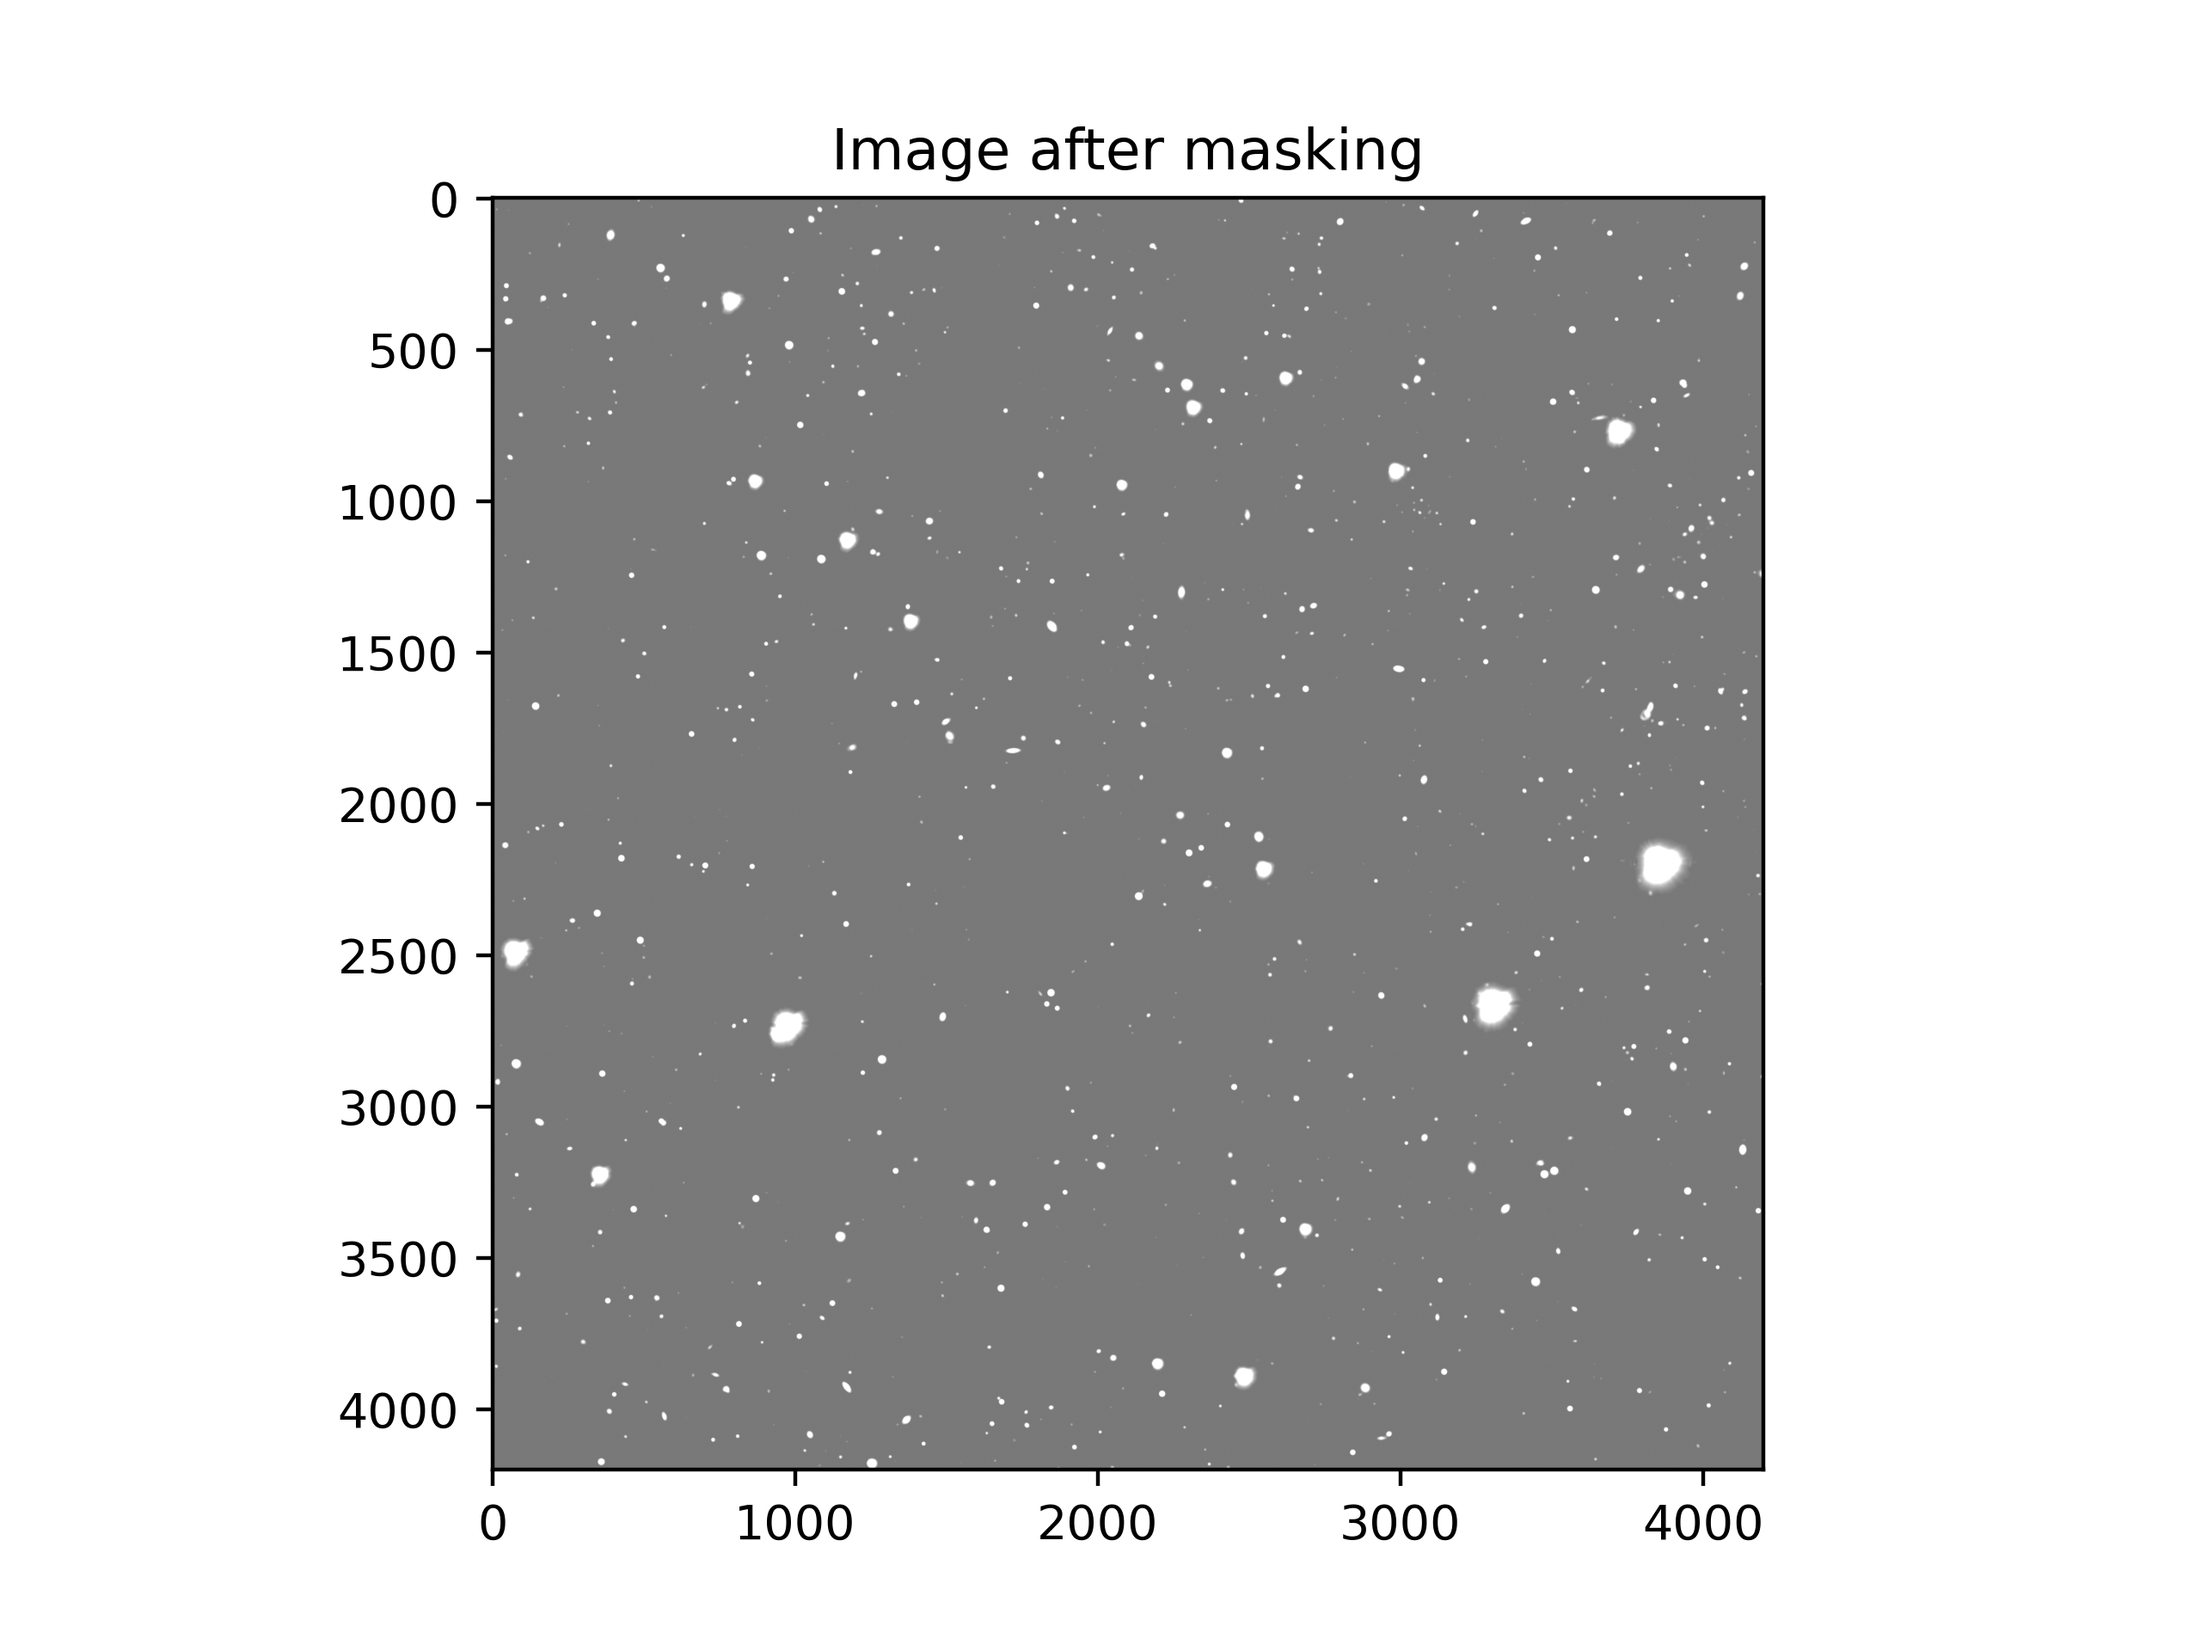
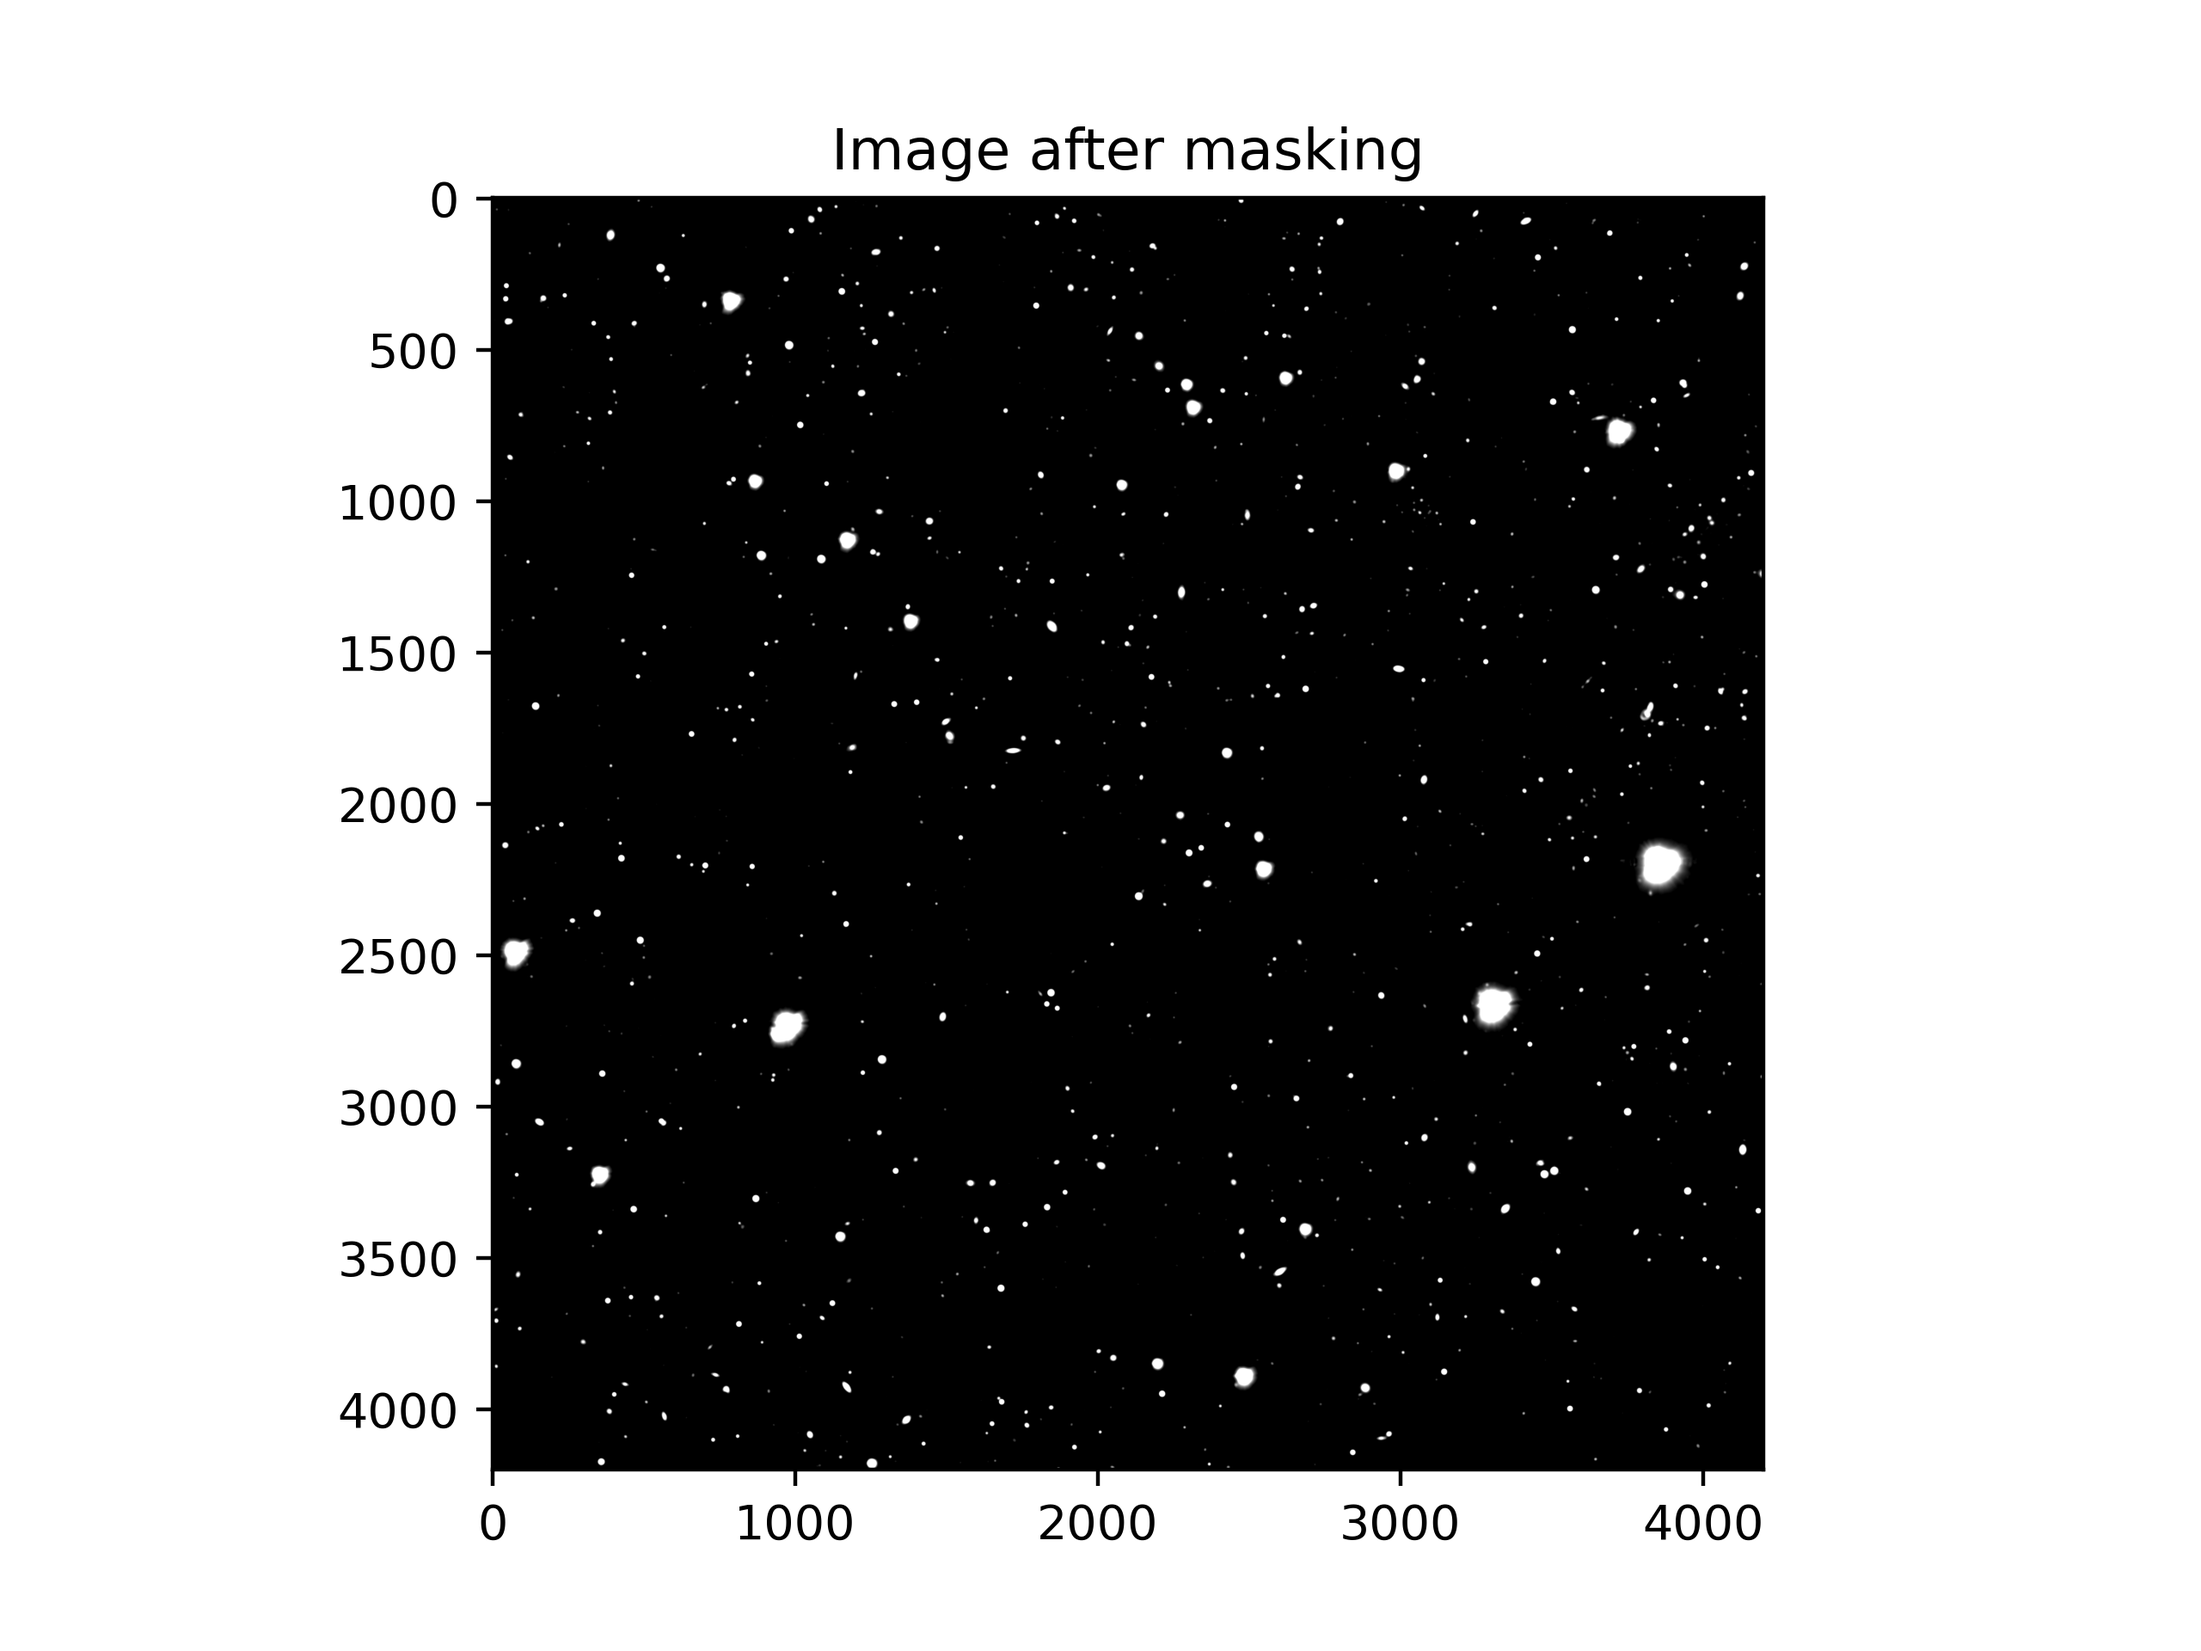
updating readme

diff --git a/src/.ipynb_checkpoints/POBRExtractor-checkpoint.py b/src/.ipynb_checkpoints/POBRExtractor-checkpoint.py
@@ -50,7 +50,7 @@ def main(config):
                                   sigma_detection=det_params['sigma_threshold'],
                                   sigma_convolution=conv_params['sigma'])
     
-    plot(residual_final)
+    plot(residual_final, vmin=0)
     plt.title('Image after masking')
     plt.savefig(f"{io_params['plot_dir']}/residual.png", dpi=400)
     plt.close()

diff --git a/src/POBRExtractor.py b/src/POBRExtractor.py
@@ -50,7 +50,7 @@ def main(config):
                                   sigma_detection=det_params['sigma_threshold'],
                                   sigma_convolution=conv_params['sigma'])
     
-    plot(residual_final)
+    plot(residual_final, vmin=0)
     plt.title('Image after masking')
     plt.savefig(f"{io_params['plot_dir']}/residual.png", dpi=400)
     plt.close()

diff --git a/.ipynb_checkpoints/README-checkpoint.md b/.ipynb_checkpoints/README-checkpoint.md
@@ -10,12 +10,12 @@ This code is designed as a simplified educational prototype rather than a full p
 
 ---
 
-## Running POBRExtractor
+## 💻 Running POBRExtractor
 
 ```bash
 python src/POBRExtractor.py data/input.yaml 
 ```
-
+---
 
 ## 🧠 Workflow Overview
 
@@ -24,6 +24,16 @@ The diagram below summarizes the internal workflow of the pipeline:
 ![POBRExtractor Workflow](logo/POBRExtractor%20Workflow.png)
 
 ---
+
+## 🌌 Example of source detection
+
+HSC's coadd image (i-band)
+
+![POBRExtractor Workflow](data/plots/raw_image.png)
+
+Objects detected
+
+![POBRExtractor Workflow](data/plots/residual.png)
 
 ## 📚 Citation / Acknowledgment
 

diff --git a/README.md b/README.md
@@ -10,12 +10,12 @@ This code is designed as a simplified educational prototype rather than a full p
 
 ---
 
-## Running POBRExtractor
+## 💻 Running POBRExtractor
 
 ```bash
 python src/POBRExtractor.py data/input.yaml 
 ```
-
+---
 
 ## 🧠 Workflow Overview
 
@@ -24,6 +24,16 @@ The diagram below summarizes the internal workflow of the pipeline:
 ![POBRExtractor Workflow](logo/POBRExtractor%20Workflow.png)
 
 ---
+
+## 🌌 Example of source detection
+
+HSC's coadd image (i-band)
+
+![POBRExtractor Workflow](data/plots/raw_image.png)
+
+Objects detected
+
+![POBRExtractor Workflow](data/plots/residual.png)
 
 ## 📚 Citation / Acknowledgment
 
